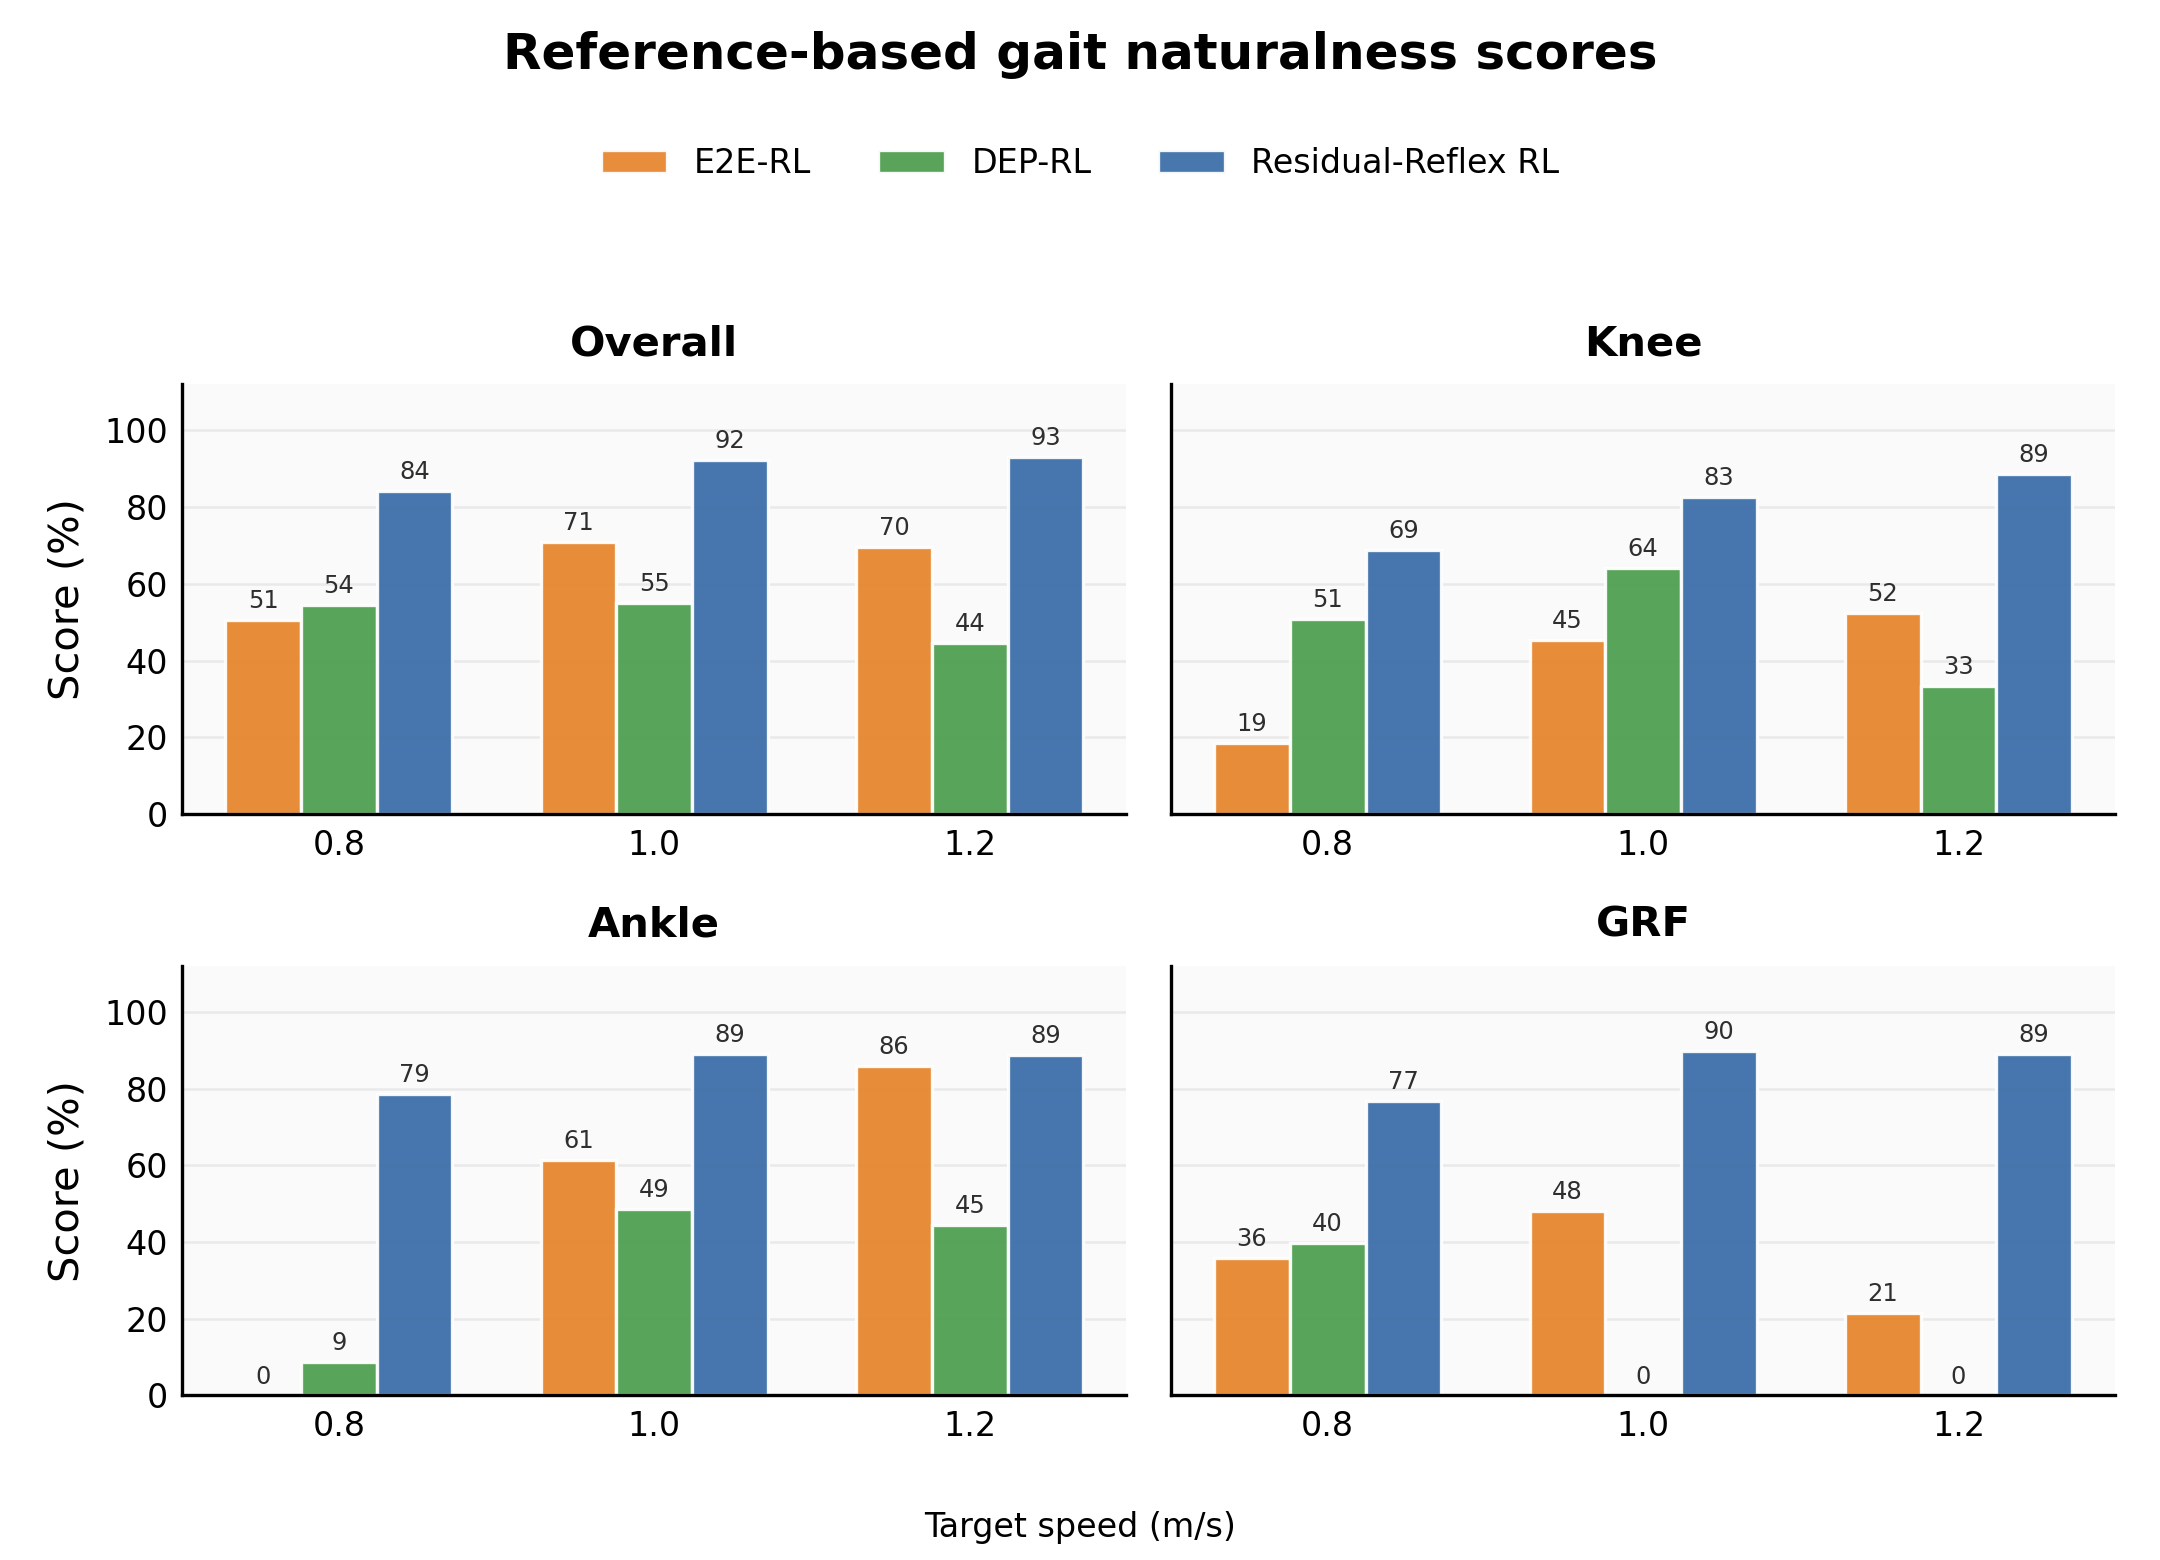
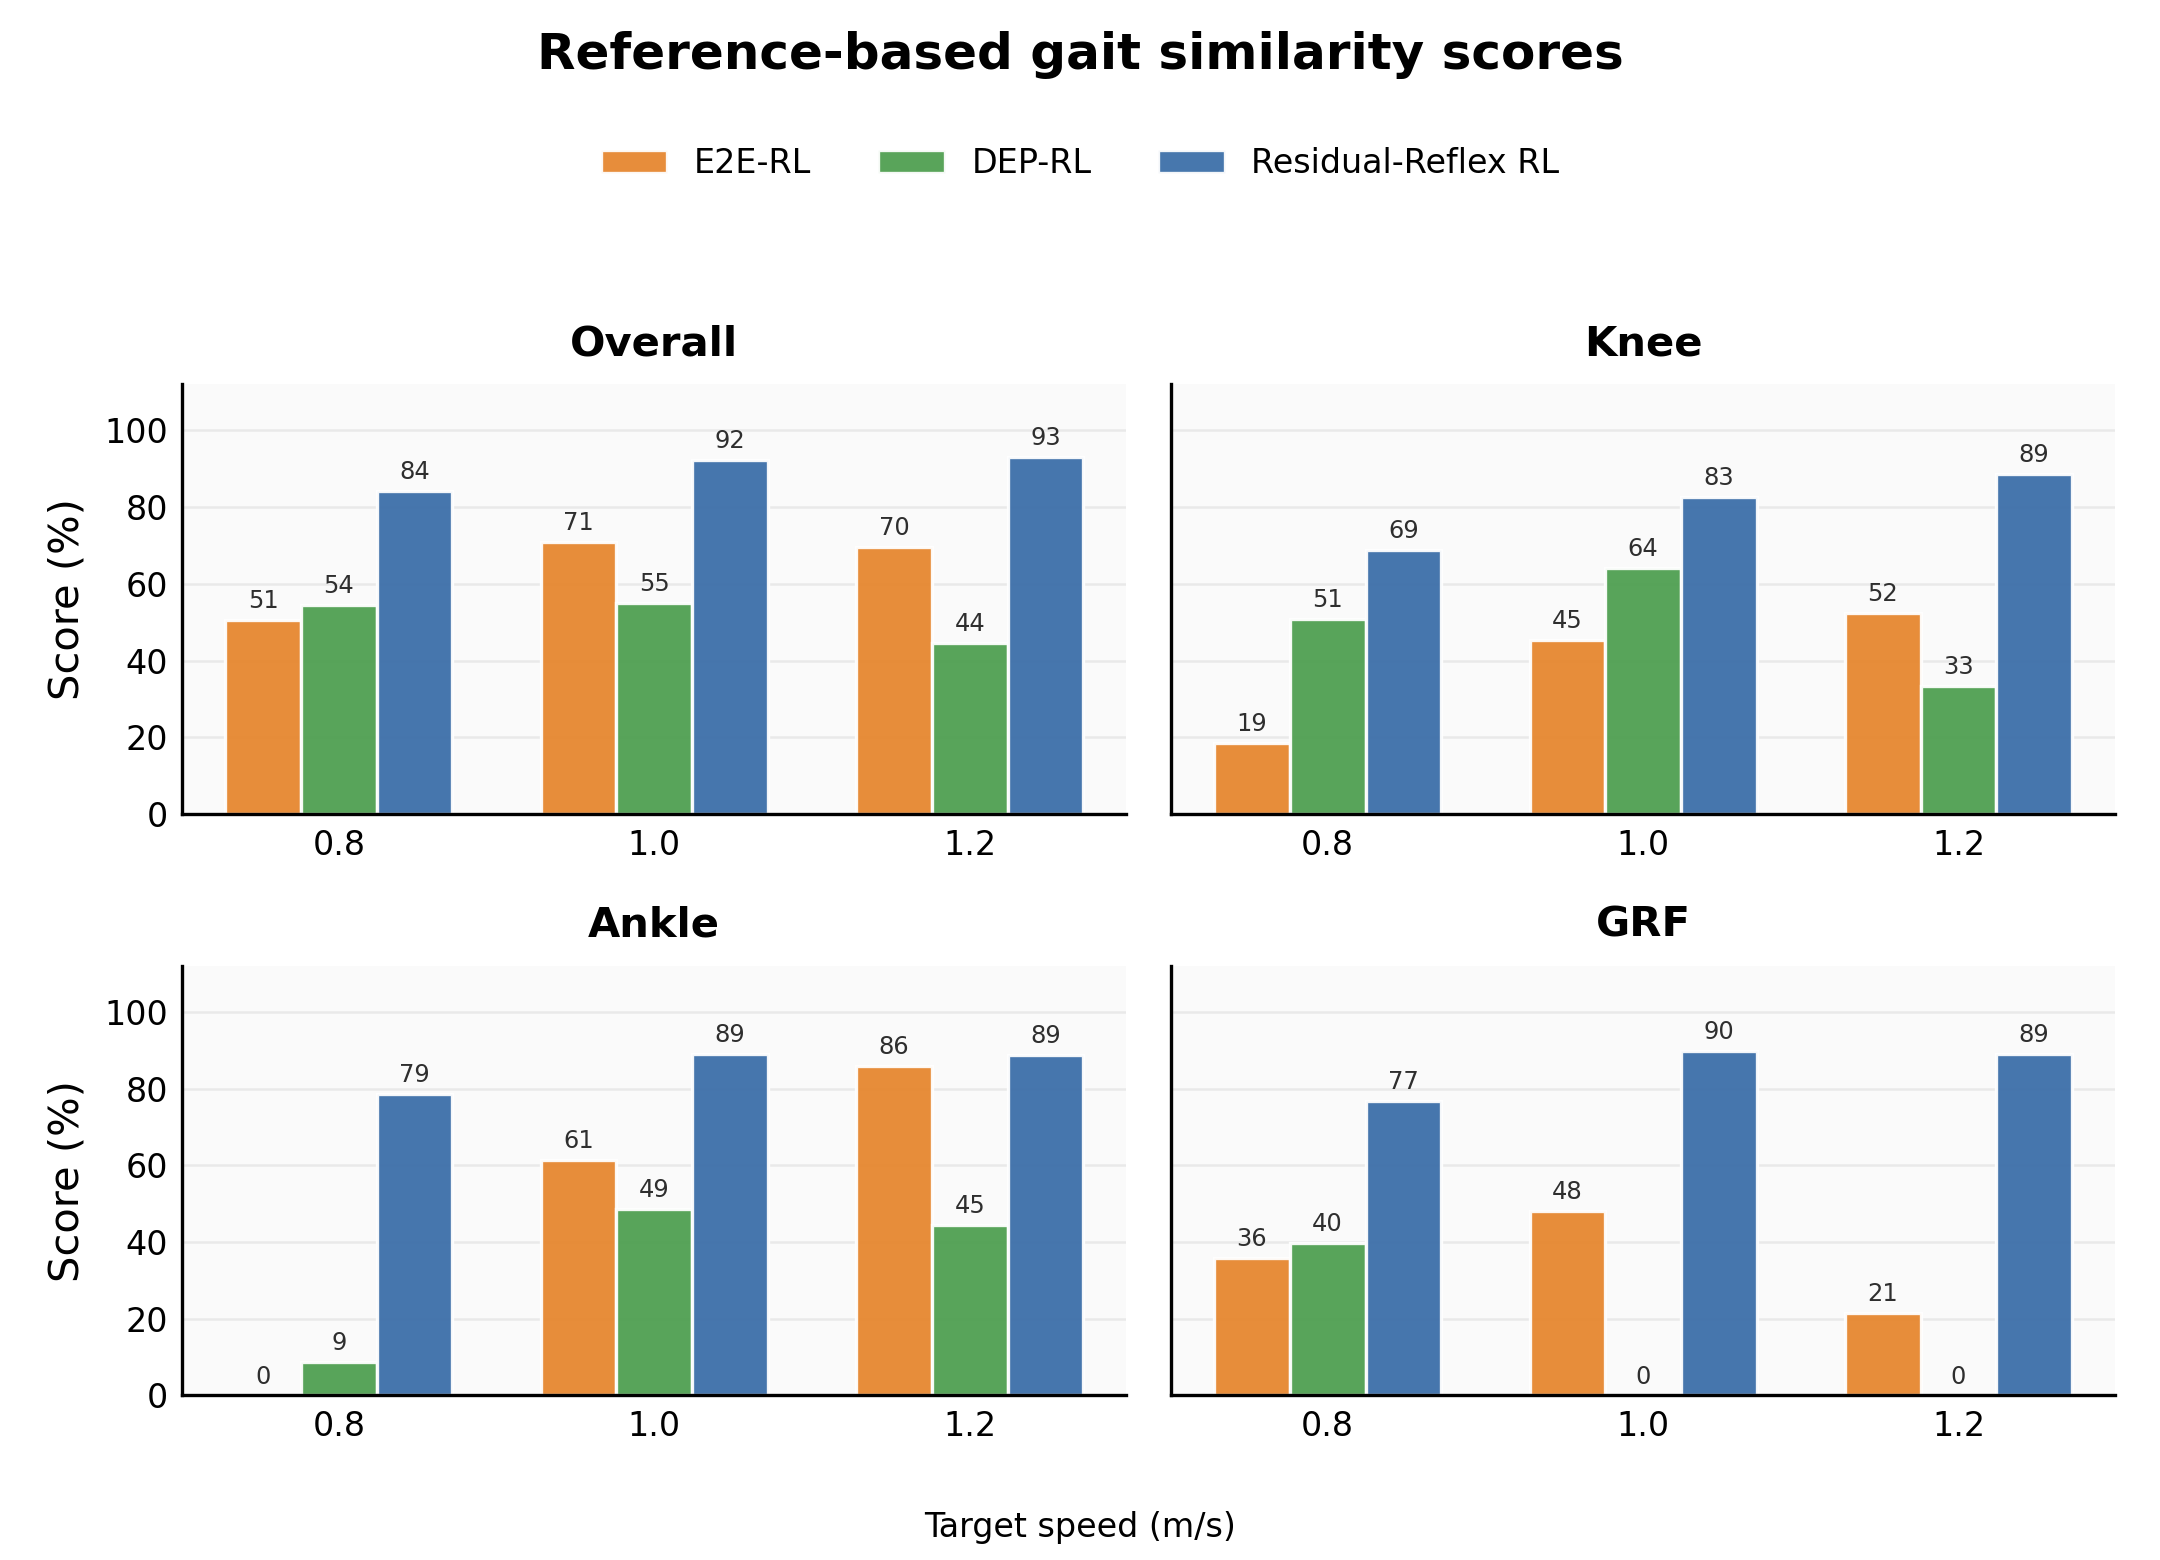
Focus results on gait similarity

Changed region(s): [[0.2171, 0.0, 0.7755, 0.0615]]

diff --git a/main.tex b/main.tex
@@ -64,7 +64,7 @@ DEP-style embodied exploration. Although these direct muscle-control baselines c
 generate walking motions, their normalized gait-cycle profiles show substantial
 deviations from reference gait, especially in knee kinematics and vertical
 ground reaction force. In contrast, the residual reflex controller achieves
-higher reference-envelope gait-cycle scores across the tested speeds and
+higher reference-based gait-cycle similarity scores across the tested speeds and
 produces more symmetric and repeatable gait cycles. These
 results suggest that reducing the effective action space through residual
 reflex modulation can improve the physiological plausibility of learned
@@ -130,7 +130,7 @@ The main contributions of this letter are as follows:
     direct muscle-control baselines on controlled walking tasks.
     \item The learned gaits are evaluated using normalized gait-cycle
     kinematics and vertical ground reaction force (GRF) profiles. The results
-    show that residual reflex modulation improves reference gait-cycle similarity,
+    show that residual reflex modulation improves reference-based gait similarity,
     especially for knee kinematics, ankle kinematics, and GRF morphology.
     \item The comparison demonstrates that successful walking alone is not
     sufficient evidence of physiologically plausible musculoskeletal gait,
@@ -343,13 +343,13 @@ stride length and stride time describe the gait strategy used to achieve the
 target speed. The stride measures were computed from the detected gait cycles
 in each evaluated trajectory.
 
-\subsubsection{Reference-based gait naturalness}
-To quantify whether the generated motion follows normative gait-cycle shapes,
+\subsubsection{Reference-based gait similarity}
+To quantify whether the generated motion follows reference gait-cycle shapes,
 we computed reference-envelope scores for pelvic tilt, hip angle, knee angle,
-ankle angle, and vertical GRF. The reference envelopes were obtained from the
-post-hoc gait-analysis template and provide lower and upper bounds for each
-normalized gait-cycle profile; these envelopes were not used during policy
-training. For each quantity, left and right gait cycles were time-normalized
+ankle angle, and vertical GRF. The gray reference envelopes in the profile
+figures denote lower and upper bounds from the post-hoc gait-analysis template.
+They were used only for evaluation and were not included in the policy reward.
+For each quantity, left and right gait cycles were time-normalized
 and averaged to obtain a mean simulated profile $\bar{y}(x)$, where $x$
 denotes gait-cycle percentage. Let $y_{\min}(x_k)$ and $y_{\max}(x_k)$ denote
 the lower and upper reference-envelope values at sample point $x_k$. The
@@ -410,7 +410,7 @@ $\mathrm{CV}_z$ indicates more repeatable gait cycles.
 \section{Results and Analysis}
 \label{sec:results-and-analysis}
 The results are organized according to the evaluation metrics defined above:
-speed tracking and stride measures, reference-based gait naturalness, GRF
+speed tracking and stride measures, reference-based gait similarity, GRF
 morphology, symmetry/repeatability, and complete gait-cycle visualization.
 
 \subsection{Speed Tracking and Stride Measures}
@@ -421,7 +421,7 @@ that the comparison is made between policies that can complete the target-speed
 walking task. The direct muscle-control baselines generally produced less consistent
 stride measures, whereas the residual reflex controller generated longer and
 more regular strides. These task-level metrics establish task completion before
-gait naturalness is evaluated.
+gait-cycle morphology is evaluated.
 
 \begin{table}[!t]
 \centering
@@ -453,19 +453,11 @@ speed.}
 }
 \end{table}
 
-\begin{figure}[!t]
-\centerline{\includegraphics[width=\columnwidth]{spatiotemporal_metrics_bars.png}}
-\caption{Speed tracking and stride measures across target speeds. The speed
-error evaluates task tracking, while stride length and stride time summarize
-the gait pattern used to achieve the target speed.}
-\label{fig:spatiotemporal_metrics}
-\end{figure}
-
-\subsection{Reference-Based Gait Naturalness}
+\subsection{Reference-Based Gait Similarity}
 Table~\ref{tab:gait_similarity} summarizes the reference-envelope gait-cycle
 scores for the three policy interfaces. Across the three target speeds, the
 proposed Residual-Reflex RL controller achieved the highest overall
-reference-based gait naturalness. The average overall score over the three
+reference-based gait similarity. The average overall score over the three
 speeds was 89.9\% for Residual-Reflex RL, 63.7\% for E2E-RL, and 51.3\% for
 DEP-RL. Fig.~\ref{fig:gait_score_bars} visualizes the main component
 scores and shows that the largest residual-reflex improvements appear in knee
@@ -477,7 +469,7 @@ necessarily imply reference-consistent joint and contact dynamics.
 
 \begin{table}[!t]
 \centering
-\caption{Reference-based gait naturalness scores in controlled walking
+\caption{Reference-based gait similarity scores in controlled walking
 validation. Scores are computed from normalized gait-cycle kinematics and
 vertical GRF.}
 \label{tab:gait_similarity}
@@ -507,7 +499,7 @@ vertical GRF.}
 
 \begin{figure}[!t]
 \centerline{\includegraphics[width=\columnwidth]{gait_score_comparison_bars.png}}
-\caption{Reference-based gait naturalness scores across target speeds. Numeric
+\caption{Reference-based gait similarity scores across target speeds. Numeric
 labels indicate the score of each bar. The residual reflex controller achieves
 the highest overall score and especially improves knee, ankle, and GRF
 components.}
@@ -648,7 +640,7 @@ space and preserves a structured neuromechanical prior within the control loop.
 
 As an initial validation, experiments in a Hyfydy-based planar musculoskeletal
 model showed that the residual reflex controller produced gait cycles with
-higher reference-envelope gait-cycle scores than both direct muscle-control
+higher reference-based gait-cycle similarity scores than both direct muscle-control
 baselines at 0.8, 1.0, and 1.2~m/s.
 The improvement was most evident in knee kinematics, ankle kinematics, and
 vertical GRF morphology. Additional cycle-level analysis showed lower
